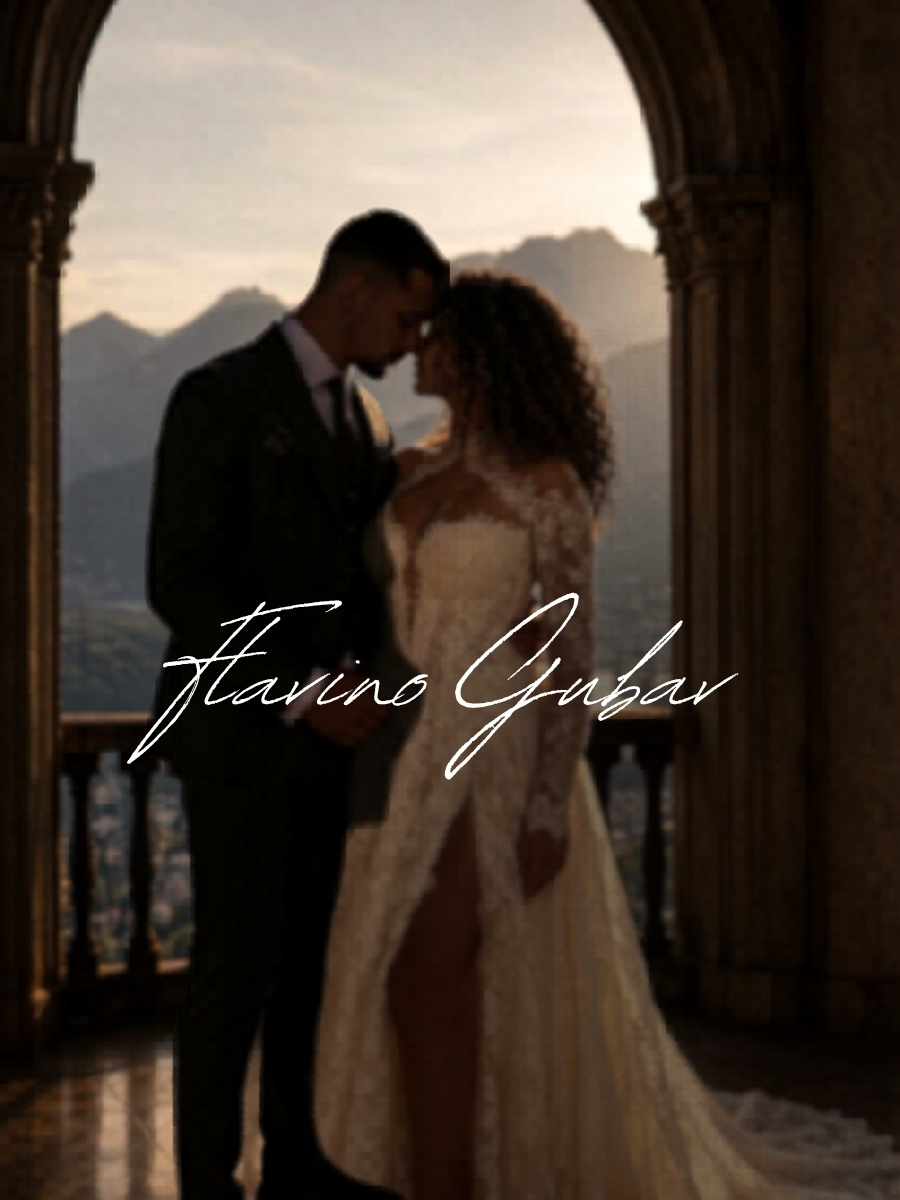
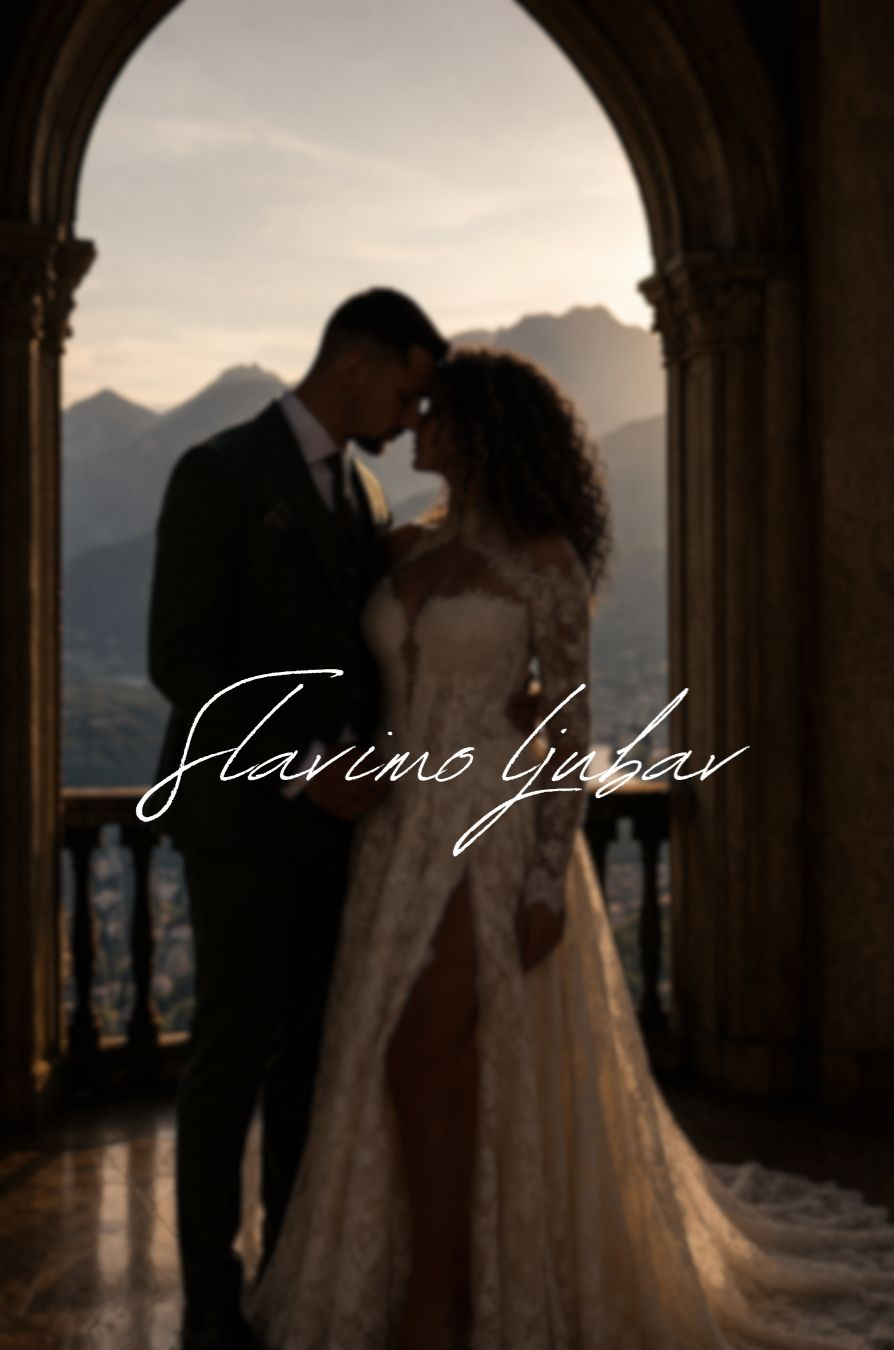
l

diff --git a/src/styles/intro.css b/src/styles/intro.css
@@ -1132,17 +1132,7 @@ html {
   background-position: center;
   background-size: cover, cover;
 }
-.photo-card {
-  width: 100%;
-  max-width: 390px;
-  text-align: center;
-  padding: 0px 8px 0;
 
-  .photo-card {
-  position: relative;
-}
-
-}
 .photo-card-intro::before {
   animation: fadeRose 1.5s ease forwards;
 }
@@ -1151,7 +1141,15 @@ html {
   from { opacity: 0; }
   to { opacity: 0.15; }
 }
+
+/* CARD */
 .photo-card {
+  position: relative; /* FIX */
+  width: 100%;
+  max-width: 390px;
+  text-align: center;
+  padding: 0 8px;
+
   animation: floatCard 6s ease-in-out infinite;
 }
 
@@ -1160,6 +1158,7 @@ html {
   50% { transform: translateY(-6px); }
   100% { transform: translateY(0px); }
 }
+
 .photo-card::after {
   content: "";
   position: absolute;
@@ -1168,6 +1167,7 @@ html {
   z-index: -1;
   filter: blur(20px);
 }
+
 .photo-card-title {
   margin: 0 0 30px;
   font-size: 13px;
@@ -1179,20 +1179,46 @@ html {
 /* FRAME */
 .photo-frame {
   position: relative;
+  width: 100%;
+  margin: 0 auto 22px;
+
   background: linear-gradient(180deg, #dfe3e4 0%, #d8ddde 100%);
   padding: 12px;
-  margin-bottom: 22px;
   border-radius: 3px;
+
   box-shadow:
     0 10px 24px rgba(69, 58, 50, 0.08),
     inset 0 1px 0 rgba(255, 255, 255, 0.45);
 }
 
+/* 🔥 shape kontrola */
+.photo-frame--square {
+  max-width: 320px;
+  aspect-ratio: 1 / 1;
+}
+
+.photo-frame--vertical {
+  max-width: 300px;
+  aspect-ratio: 3 / 4;
+}
+
+/* IMAGE */
 .photo-frame img {
   width: 100%;
-  aspect-ratio: 1 / 1;
+  height: 100%;
   object-fit: cover;
   display: block;
+}
+
+.photo-frame::after {
+  content: "";
+  position: absolute;
+  inset: 0;
+  background: linear-gradient(
+    to bottom,
+    rgba(255,255,255,0.2),
+    transparent
+  );
 }
 
 /* NAMES */
@@ -1204,23 +1230,14 @@ html {
 
   font-family: "Italianno", cursive;
   font-style: italic;
- letter-spacing: 0.8px;
+  letter-spacing: 0.8px;
   font-size: 32px;
   line-height: 0.95;
   color: #000000;
   margin: 4px 0 6px;
   font-weight: 100;
 }
-.photo-frame::after {
-  content: "";
-  position: absolute;
-  inset: 0;
-  background: linear-gradient(
-    to bottom,
-    rgba(255,255,255,0.2),
-    transparent
-  );
-}
+
 .photo-card-and {
   font-size: 18px;
   line-height: 1;
@@ -1270,9 +1287,11 @@ html {
   text-transform: uppercase;
   cursor: pointer;
   border-radius: 999px;
+
   box-shadow:
     0 10px 22px rgba(62, 48, 40, 0.08),
     inset 0 1px 0 rgba(255, 255, 255, 0.75);
+
   transition: transform 0.22s ease, box-shadow 0.22s ease, background 0.22s ease;
   backdrop-filter: blur(6px);
   border: 1px solid rgba(255,255,255,0.4);
@@ -1287,6 +1306,7 @@ html {
     inset 0 1px 0 rgba(255, 255, 255, 0.8);
 }
 
+/* MOBILE */
 @media (max-width: 480px) {
   .photo-card-intro {
     padding: 34px 16px;
@@ -1305,6 +1325,14 @@ html {
   .photo-frame {
     padding: 10px;
     margin-bottom: 18px;
+  }
+
+  .photo-frame--square {
+    max-width: 260px;
+  }
+
+  .photo-frame--vertical {
+    max-width: 240px;
   }
 
   .photo-card-names {

diff --git a/src/data/demoWedding.js b/src/data/demoWedding.js
@@ -1,6 +1,7 @@
 const createDetails = ({
   backgroundImage,
    theme,
+    imageShape,
   welcomeText,
   date,
   dateISO,
@@ -26,6 +27,7 @@ const createDetails = ({
 }) => ({
   backgroundImage,
    theme,
+    imageShape,
   welcomeText,
   date,
   dateISO,
@@ -1773,9 +1775,11 @@ backgroundColor: "#f3ece6",
   image: "/images/masa-nikola-photocard.jpg",
   backgroundImage: "/images/masa-nikola-photocard-bg.jpg",
    musicSrc: "/music/masa-nikola.mp3",
+   
   weddingDate: "06 SEP 2026",
   weddingTime: "16:30",
   details: createDetails({
+     imageShape: "vertical", // 👈 OVO
     welcomeText:
       "Sa velikom radošću vas pozivamo da budete deo našeg posebnog dana.",
 venue: "Restoran Srpski dvor otvorena sala, Rušanj",
@@ -1815,7 +1819,7 @@ dressCodeTitle: "Dress code",
 dressCodeNote:
   "Elegantne kombinacije u tonovima iz palete (crna, bordo, maslinasta i zemljani tonovi) su dobrodošle.",
 
-    mapLink:  "https://www.google.com/maps?q=Orthodox+Church+of+St.+Luke+the+Apostle,+Kneza+Vi%C5%A1eslava+100,+Beograd&ftid=0x475a71ea9fb4c97f:0xeec28c0c6bbe6268&entry=gps&shh=CAE&lucs=,94297699,100795625,94284454,94231188,94280568,47071704,94218641,94282134,94286869&g_ep=CAISEjI2LjE0LjAuODkxOTAzMTgwMBgAINeCAypSLDk0Mjk3Njk5LDEwMDc5NTYyNSw5NDI4NDQ1NCw5NDIzMTE4OCw5NDI4MDU2OCw0NzA3MTcwNCw5NDIxODY0MSw5NDI4MjEzNCw5NDI4Njg2OUICUlM%3D&skid=02ce878b-ce2e-4e16-b2c4-ed151262d881&g_st=iw",
+    mapLink:  "https://www.google.com/maps/place/%D0%A0%D0%B5%D1%81%D1%82%D0%BE%D1%80%D0%B0%D0%BD+%D0%A1%D1%80%D0%BF%D1%81%D0%BA%D0%B8+%D0%B4%D0%B2%D0%BE%D1%80/@44.6838824,20.4254496,17z/data=!4m14!1m7!3m6!1s0x475a731a9eef208d:0x82bd697a69e9962c!2z0KDQtdGB0YLQvtGA0LDQvSDQodGA0L_RgdC60Lgg0LTQstC-0YA!8m2!3d44.6838824!4d20.4280245!16s%2Fg%2F1q5bmp24z!3m5!1s0x475a731a9eef208d:0x82bd697a69e9962c!8m2!3d44.6838824!4d20.4280245!16s%2Fg%2F1q5bmp24z!18m1!1e1?entry=ttu&g_ep=EgoyMDI2MDQwNi4wIKXMDSoASAFQAw%3D%3D",
     note: "Molimo vas da svoj dolazak potvrdite do 23. avgusta.",
   }),
 },

diff --git a/src/components/PhotoCardIntro.jsx b/src/components/PhotoCardIntro.jsx
@@ -8,9 +8,15 @@ function PhotoCardIntro({
   image,
   backgroundImage,
   onEnter,
+  details = {},
 }) {
   const finalBg = backgroundImage || "/images/photo-card-bg.jpg";
   const finalImage = image || "/images/couple.jpg";
+
+  const allowedShapes = ["square", "vertical"];
+  const imageShape = allowedShapes.includes(details?.imageShape)
+    ? details.imageShape
+    : "square";
 
   return (
     <section
@@ -26,8 +32,8 @@ function PhotoCardIntro({
       >
         <p className="photo-card-title">Sačuvaj datum</p>
 
-        <div className="photo-frame">
-          <img src={finalImage} alt="couple" />
+        <div className={`photo-frame photo-frame--${imageShape}`}>
+          <img src={finalImage} alt={`${brideName} i ${groomName}`} />
         </div>
 
         <p className="photo-card-names">
@@ -38,7 +44,7 @@ function PhotoCardIntro({
 
         <div className="photo-divider" />
 
-       <p className="photo-location">{venue}</p>
+        <p className="photo-location">{venue}</p>
 
         <button className="photo-card-btn" onClick={onEnter}>
           Pogledaj pozivnicu
